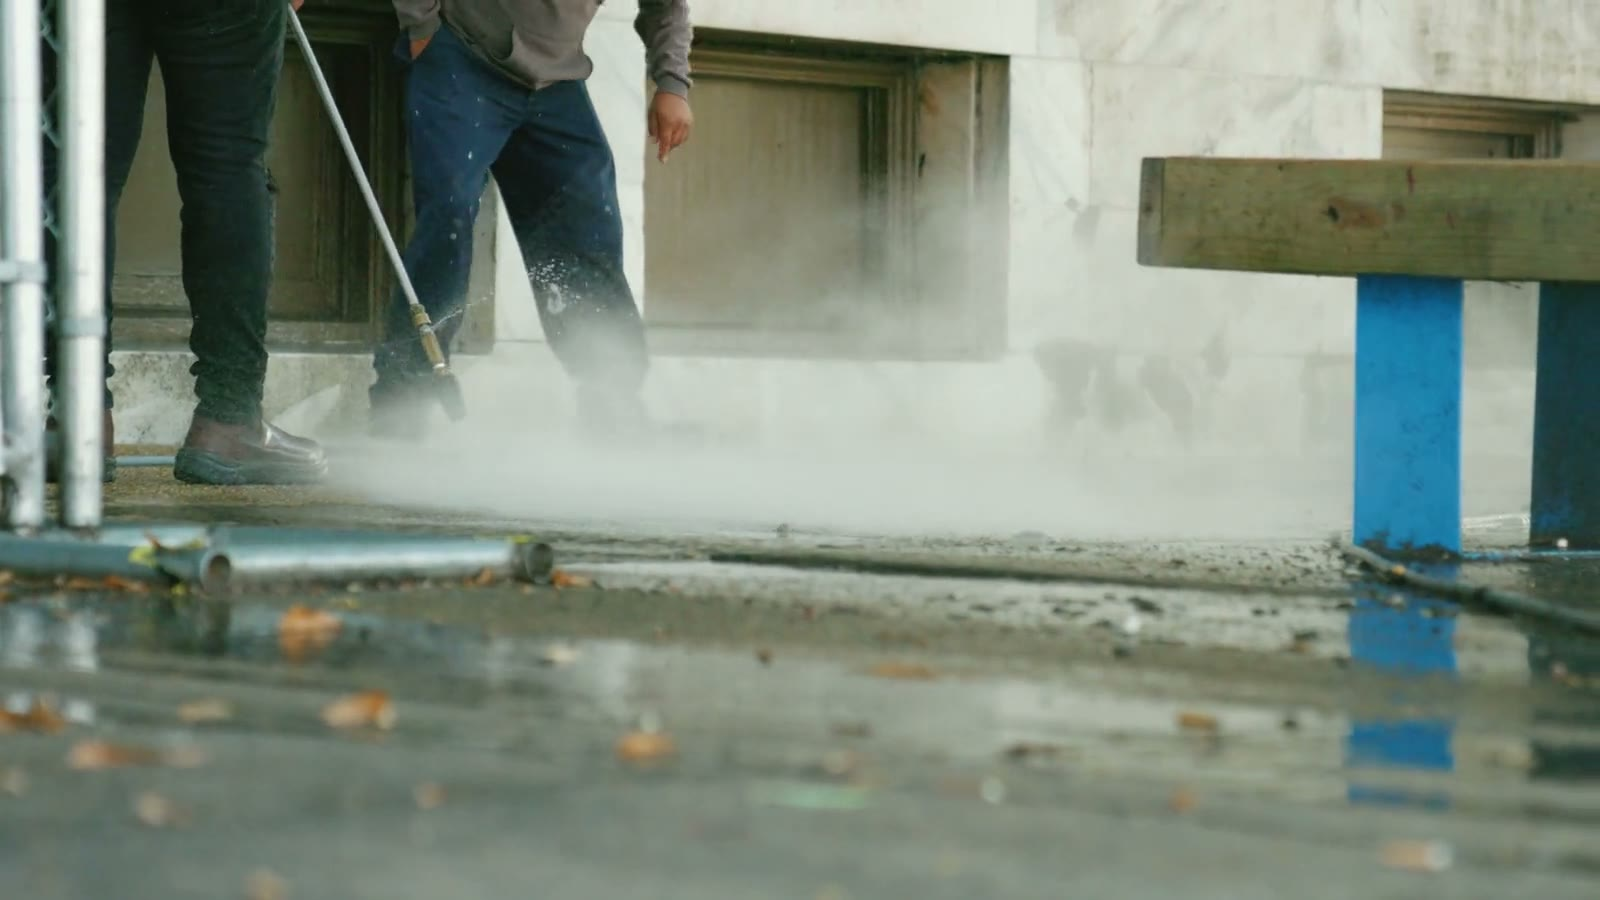
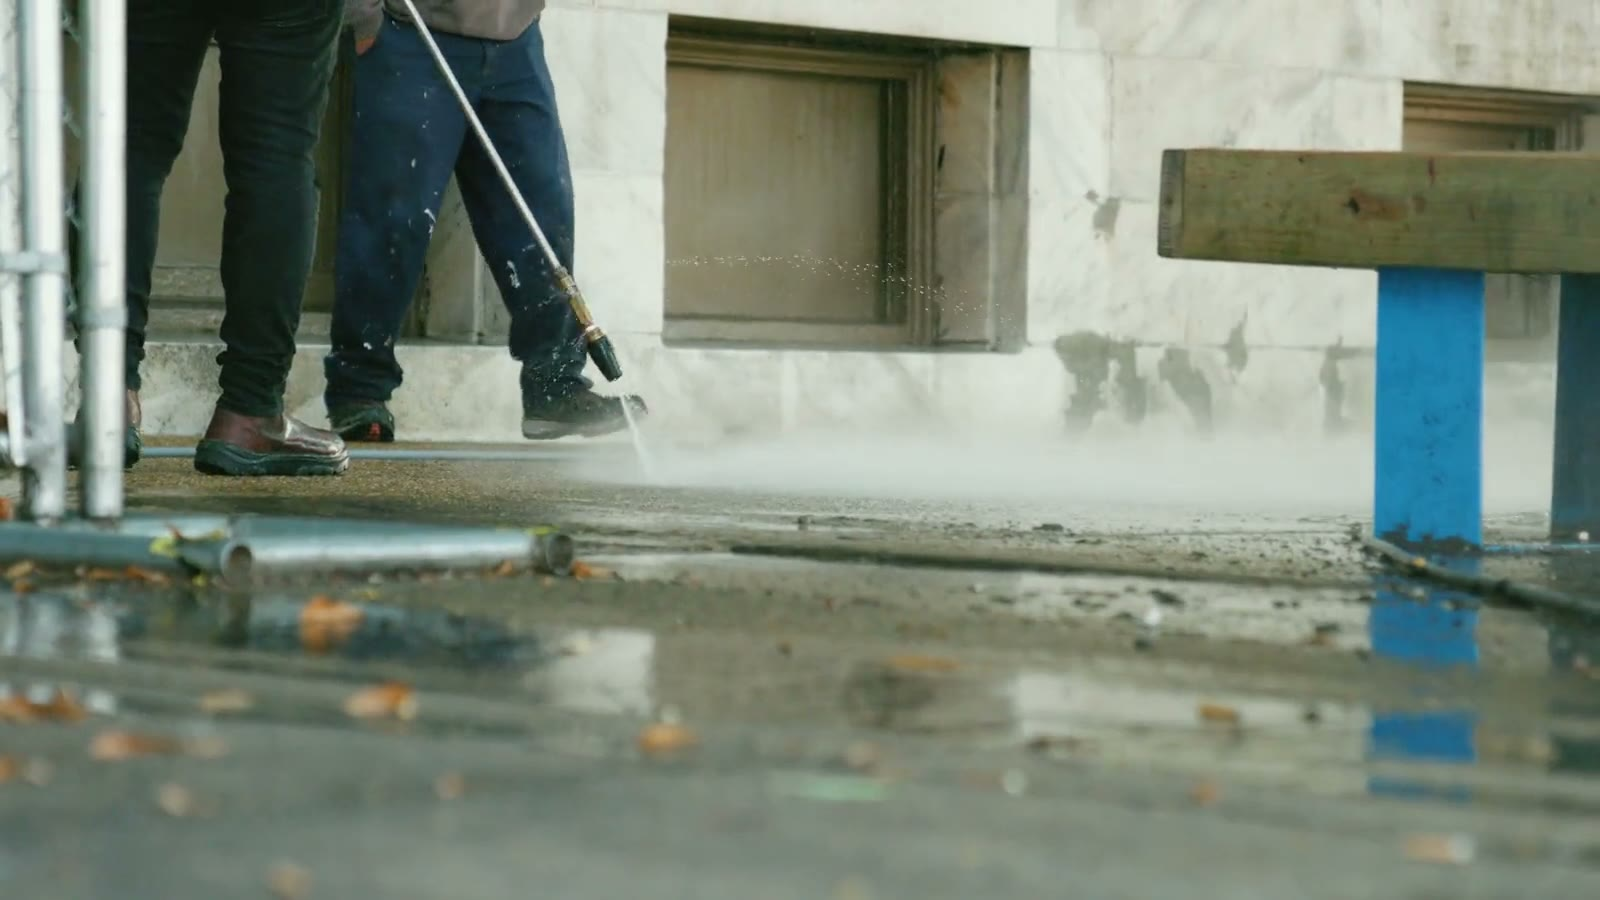
Popup triggers + face-free hero loop + mobile line-break/weight fixes
- Popup: opens after scrolling past the hero, or at 10s only if the
  visitor hasn't scrolled; centered on all screens, max-height scroll,
  bigger close target + explicit 'No thanks' dismiss
- Hero video rebuilt as a seamless palindrome loop from the face-free
  segment (jet + mist only — no identifiable people)
- Mobile: 'See the proof' is a real button; 'Lake County, FL' never
  splits; fleet headline no longer indents/clips at small widths and its
  buttons gained solid backing; fleet copy gets a text shadow
- About: signature block stacks cleanly, business line never wraps,
  credit-card label rephrased to avoid the orphaned word

diff --git a/src/components/TravisPopup.tsx b/src/components/TravisPopup.tsx
@@ -27,11 +27,13 @@ export default function TravisPopup() {
       setOpen(true);
     };
 
-    const timer = window.setTimeout(show, 14000);
+    // A) they scroll past the hero, or B) 10s on the landing view without scrolling
     const onScroll = () => {
-      const p = window.scrollY / Math.max(1, document.body.scrollHeight - window.innerHeight);
-      if (p > 0.35) show();
+      if (window.scrollY > window.innerHeight * 0.9) show();
     };
+    const timer = window.setTimeout(() => {
+      if (window.scrollY < 80) show();
+    }, 10000);
     window.addEventListener("scroll", onScroll, { passive: true });
     return () => {
       window.clearTimeout(timer);
@@ -53,7 +55,7 @@ export default function TravisPopup() {
           initial={{ opacity: 0 }}
           animate={{ opacity: 1 }}
           exit={{ opacity: 0 }}
-          className="fixed inset-0 z-[70] flex items-end justify-center bg-abyss/60 p-4 backdrop-blur-md sm:items-center"
+          className="fixed inset-0 z-[70] flex items-center justify-center bg-abyss/60 p-4 backdrop-blur-md"
           onClick={() => setOpen(false)}
           role="dialog"
           aria-modal="true"
@@ -64,7 +66,7 @@ export default function TravisPopup() {
             animate={{ y: 0, scale: 1, rotate: 0 }}
             exit={{ y: 56, opacity: 0 }}
             transition={{ type: "spring", stiffness: 240, damping: 24 }}
-            className="relative w-full max-w-[26rem] overflow-hidden rounded-[1.75rem] bg-white shadow-[0_48px_120px_-24px_rgba(4,18,31,0.85)]"
+            className="relative max-h-[92svh] w-full max-w-[26rem] overflow-hidden overflow-y-auto rounded-[1.75rem] bg-white shadow-[0_48px_120px_-24px_rgba(4,18,31,0.85)]"
             onClick={(e) => e.stopPropagation()}
           >
             {/* Travis, cut on the wand angle */}
@@ -157,9 +159,12 @@ export default function TravisPopup() {
                   </span>
                 </a>
               </div>
-              <p className="mt-4 text-center text-[0.6rem] font-semibold uppercase tracking-[0.2em] text-slate/70">
-                Family owned · Lake County FL
-              </p>
+              <button
+                onClick={() => setOpen(false)}
+                className="mt-3 w-full py-2 text-center text-xs font-semibold text-slate/80 underline-offset-4 transition-colors hover:text-slate hover:underline"
+              >
+                No thanks — just looking around
+              </button>
             </div>
 
             {/* grime layer that gets washed off on arrival */}
@@ -196,10 +201,10 @@ export default function TravisPopup() {
             <button
               onClick={() => setOpen(false)}
               aria-label="Close"
-              className="absolute right-3 top-3 z-10 grid h-9 w-9 place-items-center rounded-full bg-abyss/50 text-foam backdrop-blur-sm transition-colors hover:bg-abyss/80"
+              className="absolute right-2.5 top-2.5 z-10 grid h-11 w-11 place-items-center rounded-full bg-abyss/60 text-foam backdrop-blur-sm transition-all hover:scale-105 hover:bg-abyss/85"
             >
-              <svg width="13" height="13" viewBox="0 0 14 14" fill="none" aria-hidden="true">
-                <path d="M2 2l10 10M12 2 2 12" stroke="currentColor" strokeWidth="2" strokeLinecap="round" />
+              <svg width="16" height="16" viewBox="0 0 14 14" fill="none" aria-hidden="true">
+                <path d="M2 2l10 10M12 2 2 12" stroke="currentColor" strokeWidth="2.2" strokeLinecap="round" />
               </svg>
             </button>
           </motion.div>

diff --git a/src/app/about/page.tsx b/src/app/about/page.tsx
@@ -96,13 +96,16 @@ export default function AboutPage() {
                     </p>
                   </div>
 
-                  <div className="mt-10 flex items-end justify-between gap-6">
+                  <div className="mt-10 flex flex-col gap-6 sm:flex-row sm:items-end sm:justify-between">
                     <div>
-                      <p className="script text-4xl text-brand md:text-5xl">Travis Moss</p>
-                      <p className="label mt-2 text-slate">Owner · TM Home Detailz</p>
+                      <p className="script whitespace-nowrap text-4xl text-brand md:text-5xl">Travis Moss</p>
+                      <p className="label mt-2 whitespace-nowrap text-[0.6rem] text-slate">Owner · TM Home Detailz</p>
                     </div>
-                    <a href={SITE.smsHref} className="label shrink-0 rounded-full border border-brand/25 px-5 py-3 text-brand transition-colors hover:border-hydro hover:text-hydro">
-                      Text me · {SITE.phone}
+                    <a
+                      href={SITE.smsHref}
+                      className="label shrink-0 rounded-full border border-brand/25 px-5 py-3.5 text-center text-brand transition-colors hover:border-hydro hover:text-hydro"
+                    >
+                      <span className="whitespace-nowrap">Text me · {SITE.phone}</span>
                     </a>
                   </div>
                 </div>
@@ -113,7 +116,7 @@ export default function AboutPage() {
                 <div className="mt-6 flex items-center gap-5 rounded-3xl bg-trench p-6 md:p-7">
                   <Image src="/images/logo-white.png" alt="The TM Home Detailz logo" width={80} height={80} className="h-16 w-16 shrink-0 md:h-20 md:w-20" />
                   <p className="text-sm leading-relaxed text-mist">
-                    <span className="label mb-1.5 block text-spray">Family credit where it&apos;s due</span>
+                    <span className="label mb-1.5 block text-spray">Credit where it&apos;s&nbsp;due</span>
                     The mark, the colors, the truck wrap — that&apos;s my wife&apos;s work. She
                     builds the brand; I keep the promise it makes.
                   </p>

diff --git a/src/components/FleetSection.tsx b/src/components/FleetSection.tsx
@@ -31,36 +31,36 @@ export default function FleetSection() {
         <div className="sticky top-0 flex h-svh flex-col justify-center">
           <motion.h2
             style={{ x: typeX }}
-            className="display whitespace-nowrap text-[clamp(2.6rem,13vw,11rem)] leading-none text-foam"
+            className="display whitespace-nowrap px-5 text-[clamp(2.2rem,10.5vw,11rem)] leading-none text-foam md:px-0"
             aria-label="Fleets. Rigs. Heavy iron."
           >
-            <span className="ml-[5vw] block">
+            <span className="block md:ml-[5vw]">
               <Surface>Fleets. Rigs.</Surface>
             </span>
-            <span className="ml-[11vw] block text-hydro md:ml-[14vw]">
+            <span className="block text-hydro md:ml-[14vw]">
               <Surface delay={0.12}>Heavy iron.</Surface>
             </span>
           </motion.h2>
 
           <div className="mx-auto mt-10 flex w-full max-w-7xl flex-col gap-8 px-5 md:flex-row md:items-end md:justify-between md:px-8">
             <Reveal delay={0.2} className="max-w-md">
-              <p className="text-base leading-relaxed text-mist md:text-lg">
+              <p className="text-base leading-relaxed text-foam/95 [text-shadow:0_1px_14px_rgba(4,18,31,0.9)] md:text-lg">
                 Two-step chemistry, hand washing, and hot water — on your yard, on your
                 schedule. From a single box truck to the whole fleet, we keep your name
                 clean everywhere it drives.
               </p>
             </Reveal>
             <Reveal delay={0.3}>
-              <div className="flex flex-wrap gap-4">
+              <div className="flex flex-col gap-3 sm:flex-row sm:flex-wrap sm:gap-4">
                 <Link
                   href="/services/fleet-washing"
-                  className="label sheen inline-flex items-center gap-2 rounded-full border border-spray/40 px-7 py-3.5 text-foam transition-colors hover:border-hydro hover:text-hydro"
+                  className="label sheen inline-flex items-center justify-center gap-2 rounded-full border border-spray/60 bg-abyss/55 px-7 py-4 text-foam backdrop-blur-sm transition-colors hover:border-hydro hover:text-hydro"
                 >
                   Fleet Washing
                 </Link>
                 <Link
                   href="/services/heavy-equipment"
-                  className="label sheen inline-flex items-center gap-2 rounded-full border border-spray/40 px-7 py-3.5 text-foam transition-colors hover:border-hydro hover:text-hydro"
+                  className="label sheen inline-flex items-center justify-center gap-2 rounded-full border border-spray/60 bg-abyss/55 px-7 py-4 text-foam backdrop-blur-sm transition-colors hover:border-hydro hover:text-hydro"
                 >
                   Heavy Equipment
                 </Link>

diff --git a/src/components/Hero.tsx b/src/components/Hero.tsx
@@ -137,7 +137,9 @@ export default function Hero() {
             className="label mb-6 mt-2 flex items-center gap-3 text-spray"
           >
             <SplashMark className="h-3.5" />
-            Residential &amp; Commercial · Lake County, FL
+            <span>
+              Residential &amp; Commercial · <span className="whitespace-nowrap">Lake County, FL</span>
+            </span>
           </motion.p>
 
           <h1 className="display text-[clamp(2.7rem,10.5vw,4rem)] md:text-[clamp(2.6rem,5vw,5rem)]">
@@ -159,12 +161,16 @@ export default function Hero() {
             initial={{ opacity: 0, y: 20 }}
             animate={{ opacity: 1, y: 0 }}
             transition={{ duration: 0.8, delay: 0.7 }}
-            className="mt-9 flex flex-wrap items-center gap-5"
+            className="mt-9 flex flex-col items-stretch gap-4 md:flex-row md:flex-wrap md:items-center md:gap-5"
           >
             <JetButton href="/contact">Get My Free Quote</JetButton>
-            <a href="#proof" className="label group flex items-center gap-3 text-foam/85 transition-colors hover:text-hydro">
+            {/* full button on mobile, quiet link on desktop */}
+            <a
+              href="#proof"
+              className="label group flex items-center justify-center gap-3 rounded-full border border-foam/30 px-8 py-4 text-foam/90 transition-colors hover:border-hydro hover:text-hydro md:border-0 md:px-0 md:py-0 md:text-foam/85"
+            >
               See the proof
-              <span className="grid h-10 w-10 place-items-center rounded-full border border-foam/25 transition-all duration-300 group-hover:translate-y-1 group-hover:border-hydro">
+              <span className="grid h-6 w-6 place-items-center rounded-full transition-all duration-300 group-hover:translate-y-1 md:h-10 md:w-10 md:border md:border-foam/25 md:group-hover:border-hydro">
                 <svg width="13" height="13" viewBox="0 0 16 16" fill="none" aria-hidden="true">
                   <path d="M8 2v11M3 9l5 5 5-5" stroke="currentColor" strokeWidth="2" strokeLinecap="round" strokeLinejoin="round" />
                 </svg>